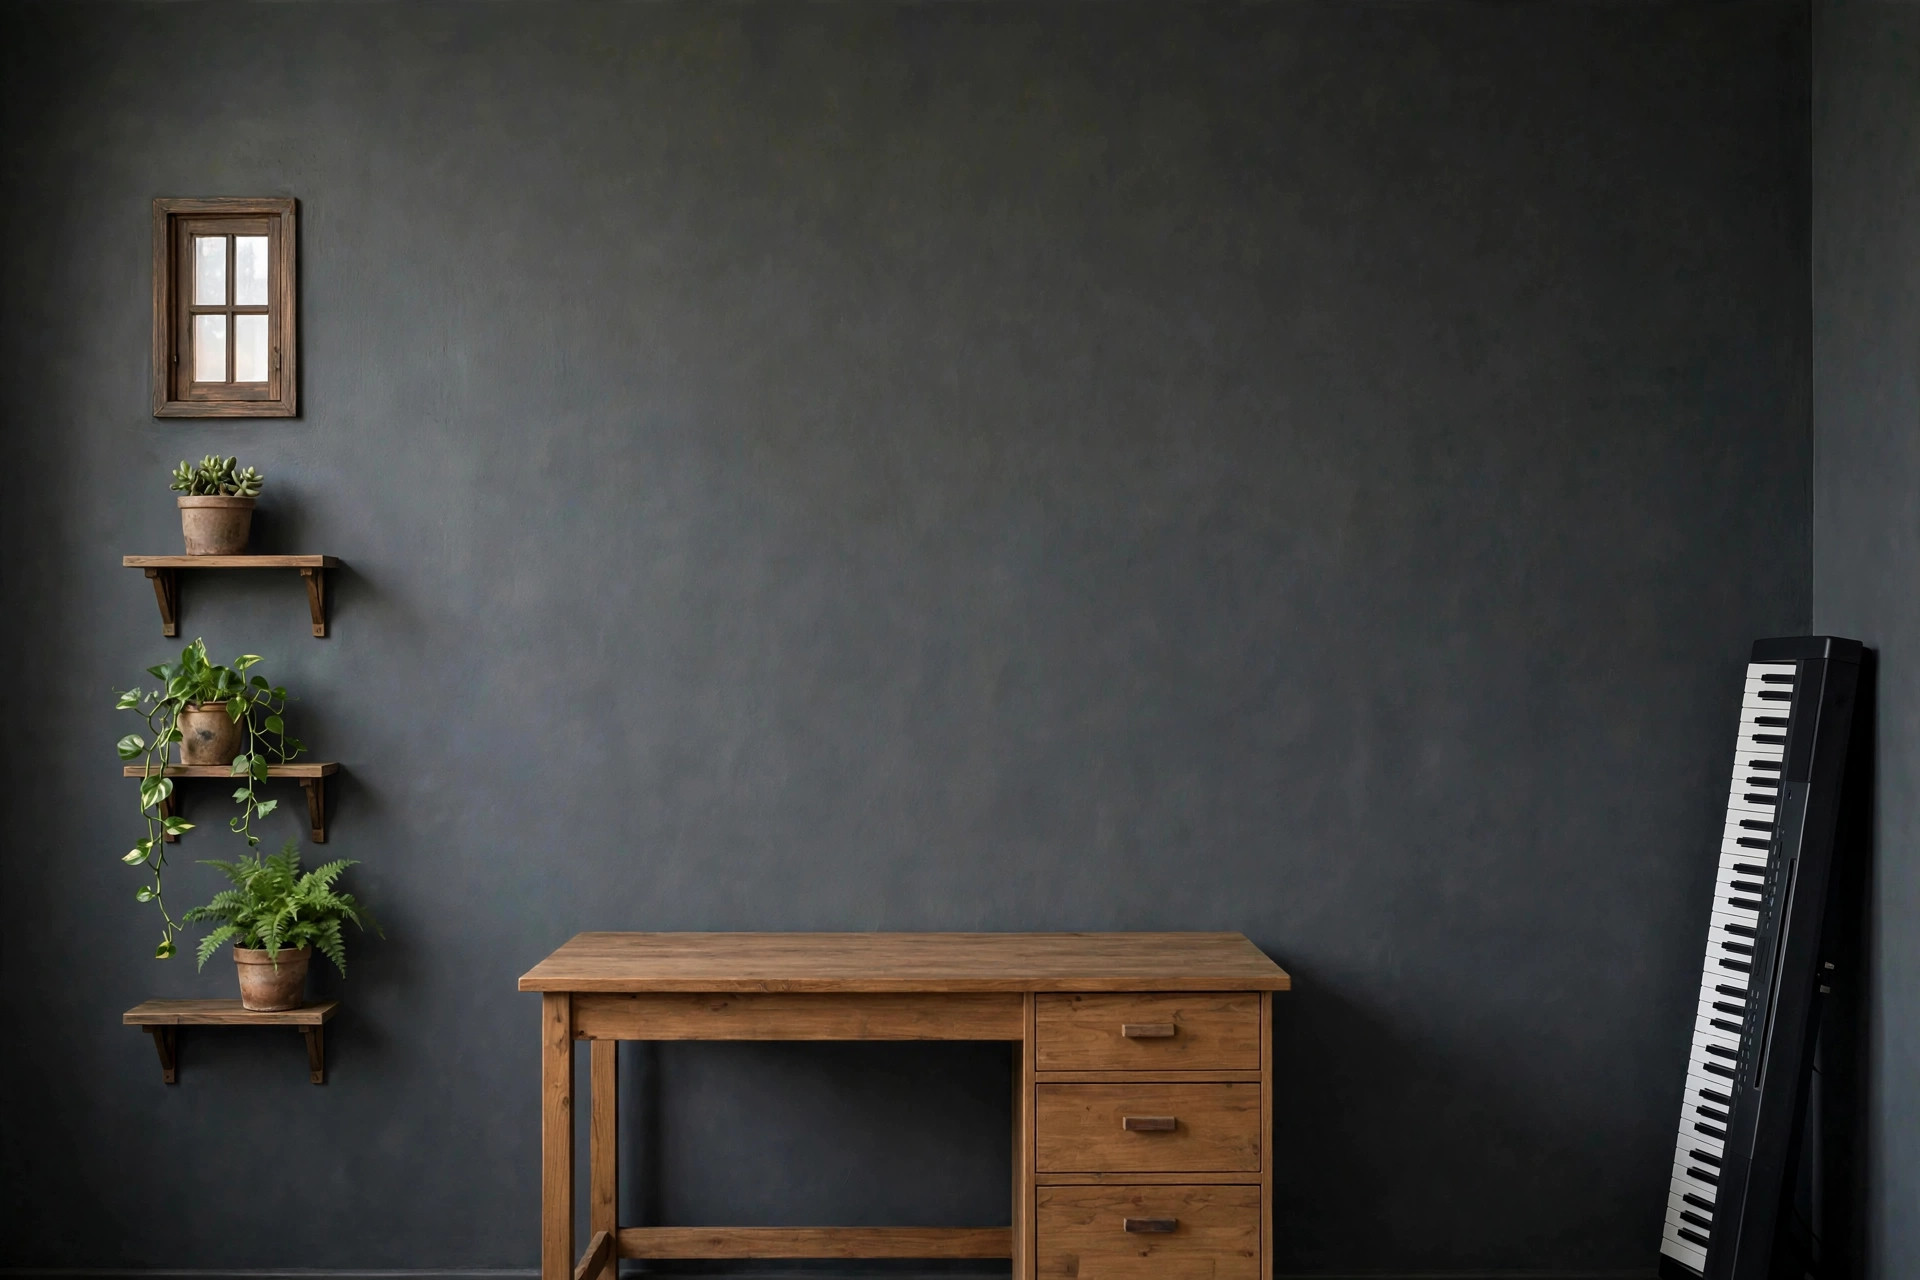
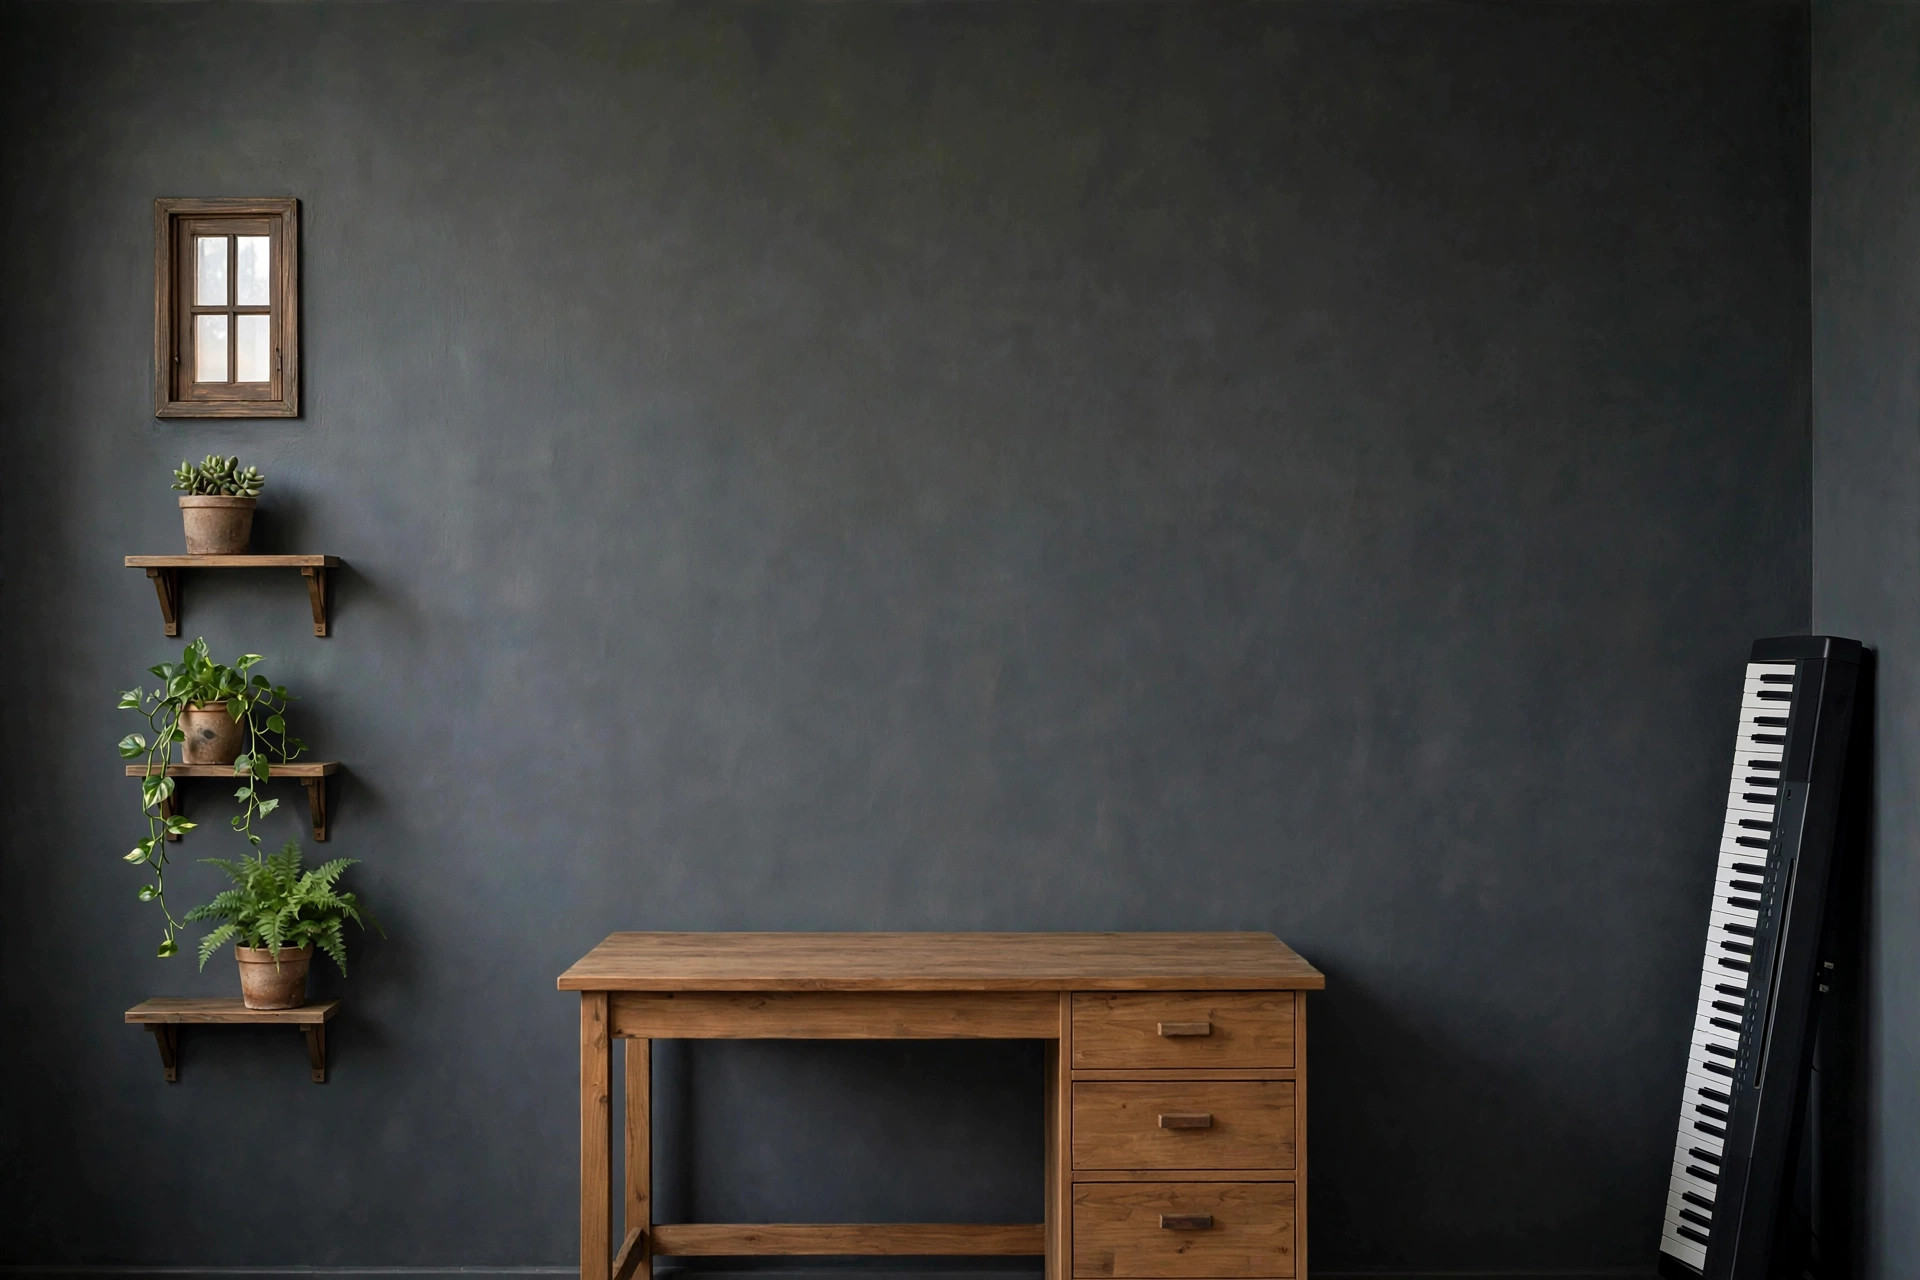
Remove bonus candle, center desk under shelf

diff --git a/src/components/Office.vue b/src/components/Office.vue
@@ -3,10 +3,8 @@ import { computed, ref } from 'vue';
 import Bookshelf from './Bookshelf.vue';
 import BookView from './BookView.vue';
 import { useOfficeStore } from '../stores/office';
-import { useBonusStore } from '../stores/bonus';
 
 const office = useOfficeStore();
-const bonus = useBonusStore();
 const bookViewRef = ref<InstanceType<typeof BookView> | null>(null);
 
 defineEmits(['open-book', 'back-to-cover', 'back-to-cover-section', 'finale-contact']);
@@ -31,12 +29,6 @@ const trackClass = computed(() => ({
           :show-manuscript="!office.manuscriptBound"
           @open-book="$emit('open-book')"
         />
-        <!-- Bonus candle on the background desk. -->
-        <div
-          v-if="bonus.enabled && !bonus.candleGone"
-          class="shelf-candle"
-          aria-hidden="true"
-        ></div>
         <!-- Cover manuscript overlay (home page hero) when not bound. -->
         <div
           v-if="!office.manuscriptBound"
@@ -163,39 +155,8 @@ const trackClass = computed(() => ({
 
 <style>
 /* Theme-based background swap (non-scoped: html selector). */
-html[data-theme='dark'] .office-scene {
+html[data-theme='dark'] .office-shelf {
   background: url('/office-wall-night.jpg') center / cover no-repeat, #0a0d14;
 }
 </style>
 
-<style>
-/* Bonus candle sitting on the background desk. */
-.shelf-candle {
-  position: absolute;
-  left: 38%;
-  bottom: 18%;
-  width: 16px;
-  height: 64px;
-  z-index: 3;
-  pointer-events: none;
-  background: linear-gradient(180deg, #e8dcc0 0%, #c9b896 100%);
-  border-radius: 3px 3px 0 0;
-  box-shadow: 0 2px 8px rgba(0, 0, 0, 0.4);
-}
-.shelf-candle::before {
-  content: '';
-  position: absolute;
-  left: 50%;
-  top: -16px;
-  width: 12px;
-  height: 18px;
-  transform: translateX(-50%);
-  background: radial-gradient(ellipse at 50% 70%, #ffd97a 0%, #ff9a3c 60%, transparent 70%);
-  border-radius: 50% 50% 50% 50% / 60% 60% 40% 40%;
-  animation: shelf-flicker 1.2s ease-in-out infinite alternate;
-}
-@keyframes shelf-flicker {
-  from { transform: translateX(-50%) scale(1); opacity: 1; }
-  to { transform: translateX(-50%) scale(1.08); opacity: 0.92; }
-}
-</style>

diff --git a/src/components/Bookshelf.vue b/src/components/Bookshelf.vue
@@ -737,7 +737,8 @@ onUnmounted(() => window.removeEventListener('keydown', onShelfKey));
   margin: 0;
   font-size: 0.78rem;
   letter-spacing: 0.08em;
-  color: rgba(232, 205, 150, 0.5);
+  color: rgba(232, 205, 150, 0.85);
+  text-shadow: 0 1px 8px rgba(0, 0, 0, 0.9), 0 0 2px rgba(0, 0, 0, 0.9);
 }
 .bs-reopen {
   background: rgba(208, 138, 78, 0.12);
